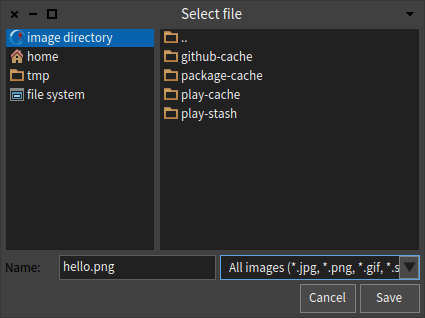
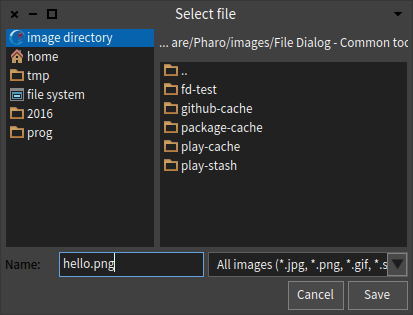
Updated readme and fixed figures.

diff --git a/README.md b/README.md
@@ -78,14 +78,13 @@ fileFilters: { 'STON files (*.ston, *.json)' -> #('*.ston' '*.json') }
 asynchronous — execute behavior on selection from a block
 
 ```st
-FDSaveFileDialog new
+FDOpenFileDialog new
 	whenSelected: [ :file | file inspect ];
-	filteredExtensions: {
+	extensionFilters: {
 		'All images' -> #(jpg png gif svg).
 		'All files' -> #()
 	};
 	defaultFolder: FileLocator imageDirectory asFileReference;
-	defaultName: 'hello.png';
 	open
 ```
 
